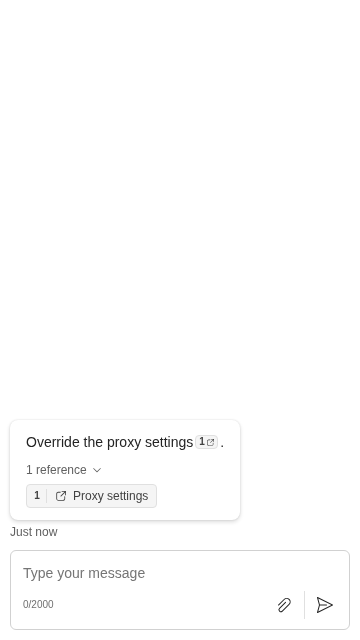
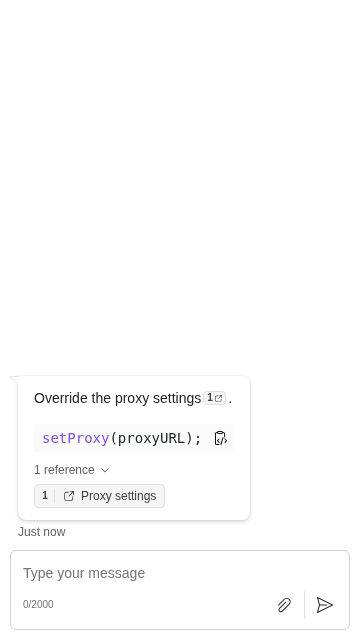
Hide bubble nub from screen readers, drop false aria-disabled on code block copy button and aria-labelledby on toaster list
- Bubble: aria-hidden on the nub SVG
- CodeBlockCopyButton: aria-disabled only when true
- BasicToaster: no aria-labelledby on the generic list div
- Fluent SendBox: delete the aria-invalid="false" line instead of rewriting
- Test: nub on, code block in the message, false states checked on the whole page, toaster list
- CHANGELOG: shorter entry

diff --git a/__tests__/html2/sendBox/accessibility.names.html b/__tests__/html2/sendBox/accessibility.names.html
@@ -36,8 +36,11 @@
         const root = createRoot(document.getElementById('webchat'));
         const variant = new URLSearchParams(location.search).get('variant');
 
+        // Bubble nubs are off by default, turn on the nub of bot messages.
+        const styleOptions = { bubbleNubSize: 10 };
+
         const render = props => {
-          const webChatElement = createElement(ReactWebChat, { directLine, store, ...props });
+          const webChatElement = createElement(ReactWebChat, { directLine, store, styleOptions, ...props });
 
           root.render(variant ? createElement(FluentThemeProvider, { variant }, webChatElement) : webChatElement);
         };
@@ -57,9 +60,9 @@
 
         await pageConditions.uiConnected();
 
-        // GIVEN: A message with a Markdown link reference definition, shown as a reference list below the message.
+        // GIVEN: A message with a nub, a code block with a "Copy" button, and a Markdown link reference definition.
         await directLine.emulateIncomingActivity({
-          text: 'Override the proxy settings[1].\n\n[1]: https://example.com/proxy "Proxy settings"\n',
+          text: 'Override the proxy settings[1].\n\n```js\nsetProxy(proxyURL);\n```\n\n[1]: https://example.com/proxy "Proxy settings"\n',
           type: 'message'
         });
 
@@ -74,9 +77,9 @@
         // THEN: The hidden file input behind the "Upload file" button should also be labelled, for audit tools.
         expect(getSendBox().querySelector('input[type="file"]').getAttribute('aria-label')).toBe('Upload file');
 
-        // THEN: The send box should not set `aria-disabled` or `aria-invalid` to "false".
+        // THEN: The send box and the "Copy" button of the code block should not set `aria-disabled` or `aria-invalid` to "false".
         expect(
-          Array.from(getSendBox().querySelectorAll('[aria-disabled="false"], [aria-invalid="false"]')).map(
+          Array.from(document.querySelectorAll('[aria-disabled="false"], [aria-invalid="false"]')).map(
             element => element.outerHTML
           )
         ).toEqual([]);
@@ -87,8 +90,31 @@
         expect(openInNewWindowIcon.getAttribute('aria-hidden')).toBe('true');
         expect(await testHelpers.getAccessibilityNode(openInNewWindowIcon)).toHaveProperty('ignored', true);
 
-        // THEN: The send box and the link reference with its "open in new window" icon are shown.
+        // THEN: The decorative nub of the bubble should be hidden from assistive technologies.
+        const nub = document.querySelector('.bubble__nub');
+
+        expect(nub.getAttribute('aria-hidden')).toBe('true');
+        expect(await testHelpers.getAccessibilityNode(nub)).toHaveProperty('ignored', true);
+
+        // THEN: The message with its nub, code block, and link reference, and the send box are shown.
         await host.snapshot('local');
+
+        // WHEN: Two notifications are shown and the toaster is expanded.
+        store.dispatch({
+          payload: { id: '1', level: 'info', message: 'Notification 1.' },
+          type: 'WEB_CHAT/SET_NOTIFICATION'
+        });
+        store.dispatch({
+          payload: { id: '2', level: 'error', message: 'Notification 2.' },
+          type: 'WEB_CHAT/SET_NOTIFICATION'
+        });
+
+        await pageConditions.toasterExpandable();
+        await pageObjects.clickToasterHeader();
+        await pageConditions.toasterExpanded();
+
+        // THEN: The list of notifications is a generic `<div>` and should not be labelled by `aria-labelledby`.
+        expect(document.querySelector('.webchat__toaster__list').hasAttribute('aria-labelledby')).toBe(false);
 
         // The Fluent theme shows its microphone button for voice-capable adapters only, not for Web Speech.
         if (!variant) {

diff --git a/packages/fluent-theme/src/components/sendBox/SendBox.tsx b/packages/fluent-theme/src/components/sendBox/SendBox.tsx
@@ -209,14 +209,13 @@ function SendBox(props: Props) {
 
   const handleTranscriptNavigation = useTranscriptNavigation();
 
-  // Only set "aria-invalid" when invalid, "false" is the default.
-  const aria = errorMessage
-    ? Object.freeze({
-        'aria-describedby': errorMessageId,
-        'aria-errormessage': errorMessageId,
-        'aria-invalid': 'true' as const
-      })
-    : undefined;
+  const aria = {
+    ...(errorMessage && {
+      'aria-describedby': errorMessageId,
+      'aria-errormessage': errorMessageId,
+      'aria-invalid': 'true' as const
+    })
+  };
 
   return (
     <form

diff --git a/packages/component/src/BasicToaster.js b/packages/component/src/BasicToaster.js
@@ -184,7 +184,7 @@ const BasicToaster = ({ className }) => {
         </button>
       )}
       {(!expandable || expanded) && (
-        <div aria-labelledby={headerElementId} className="webchat__toaster__list" id={expandableElementId}>
+        <div className="webchat__toaster__list" id={expandableElementId}>
           {sortedNotificationsWithChildren.map(({ children, notification: { id } }) => (
             <div className="webchat__toaster__listItem" key={id}>
               {children}

diff --git a/packages/component/src/providers/CustomElements/customElements/CodeBlockCopyButton.tsx b/packages/component/src/providers/CustomElements/customElements/CodeBlockCopyButton.tsx
@@ -87,7 +87,7 @@ function CodeBlockCopyButton(props: CodeBlockCopyButtonProps) {
   // The "--copied" classes have no style of their own, they are kept for hosts to style.
   return (
     <button
-      aria-disabled={disabled}
+      aria-disabled={disabled || undefined}
       className={cx(className, classNames['code-block-copy-button'], { 'code-block-copy-button--copied': copied })}
       data-testid={testIds.codeBlockCopyButton}
       onClick={handleClick}

diff --git a/packages/component/src/Activity/Bubble.tsx b/packages/component/src/Activity/Bubble.tsx
@@ -34,6 +34,7 @@ function acuteNubSVG(nubSize, strokeWidth, side, upSideDown = false, classNames)
 
   return (
     <svg
+      aria-hidden="true"
       className={classNames['bubble__nub']}
       version="1.1"
       viewBox={`0 0 ${nubSize} ${nubSize}`}

diff --git a/CHANGELOG.md b/CHANGELOG.md
@@ -62,7 +62,7 @@ Legends:
 - Fixed the "Positive" card action button having less than 4.5:1 color contrast, fixes [#5713](https://github.com/microsoft/BotFramework-WebChat/issues/5713), in PR [#5905](https://github.com/microsoft/BotFramework-WebChat/pull/5905), by [@OEvgeny](https://github.com/OEvgeny)
 - Fixed screen readers announcing a single audio, video, or animation in a card as a list item, such as "1 of 1", fixes [#5722](https://github.com/microsoft/BotFramework-WebChat/issues/5722), in PR [#5903](https://github.com/microsoft/BotFramework-WebChat/pull/5903), by [@OEvgeny](https://github.com/OEvgeny)
 - Fixed video and animation cards disappearing in production builds when the video URL is relative or invalid, in PR [#5889](https://github.com/microsoft/BotFramework-WebChat/pull/5889), by [@OEvgeny](https://github.com/OEvgeny)
-- Fixed send box buttons being labelled only by `title`, the file input having no label, `aria-disabled` and `aria-invalid` being set to `false`, and the icon in link references being exposed to screen readers, fixes [#4988](https://github.com/microsoft/BotFramework-WebChat/issues/4988), [#4989](https://github.com/microsoft/BotFramework-WebChat/issues/4989), [#5230](https://github.com/microsoft/BotFramework-WebChat/issues/5230), and [#5388](https://github.com/microsoft/BotFramework-WebChat/issues/5388), in PR [#XXXX](https://github.com/microsoft/BotFramework-WebChat/pull/XXXX), by [@OEvgeny](https://github.com/OEvgeny)
+- Fixed send box buttons and file input missing `aria-label`, `aria-disabled`/`aria-invalid` set to `false`, and decorative icons exposed to screen readers, fixes [#4988](https://github.com/microsoft/BotFramework-WebChat/issues/4988), [#4989](https://github.com/microsoft/BotFramework-WebChat/issues/4989), [#5230](https://github.com/microsoft/BotFramework-WebChat/issues/5230), and [#5388](https://github.com/microsoft/BotFramework-WebChat/issues/5388), in PR [#XXXX](https://github.com/microsoft/BotFramework-WebChat/pull/XXXX), by [@OEvgeny](https://github.com/OEvgeny)
 
 ## [4.19.2] - 2026-10-08
 
